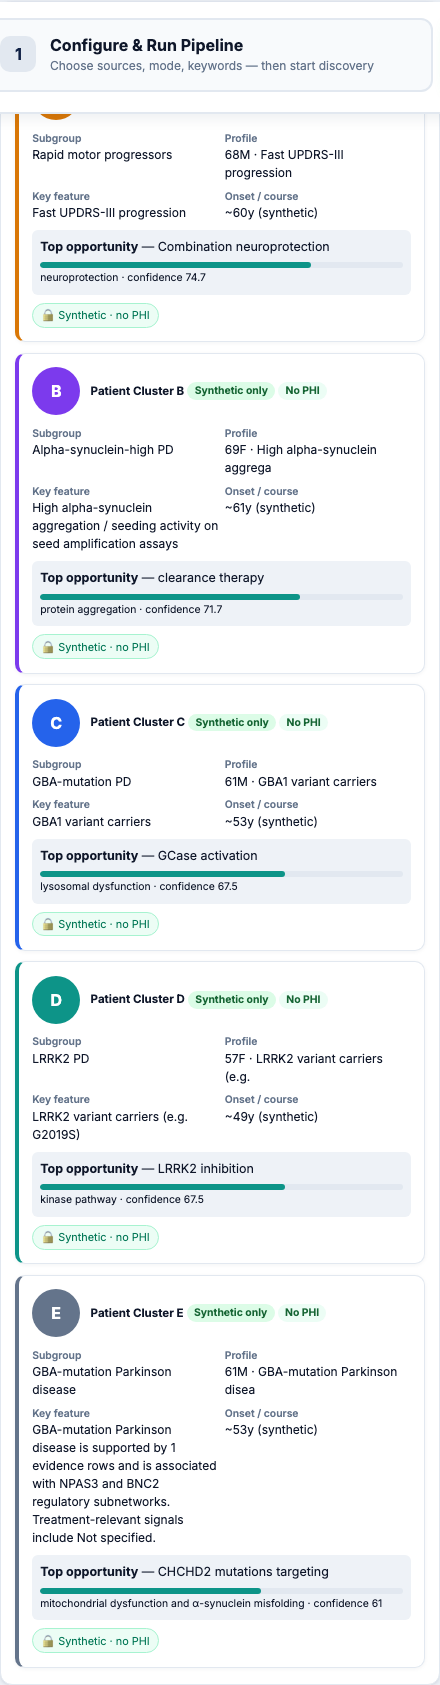
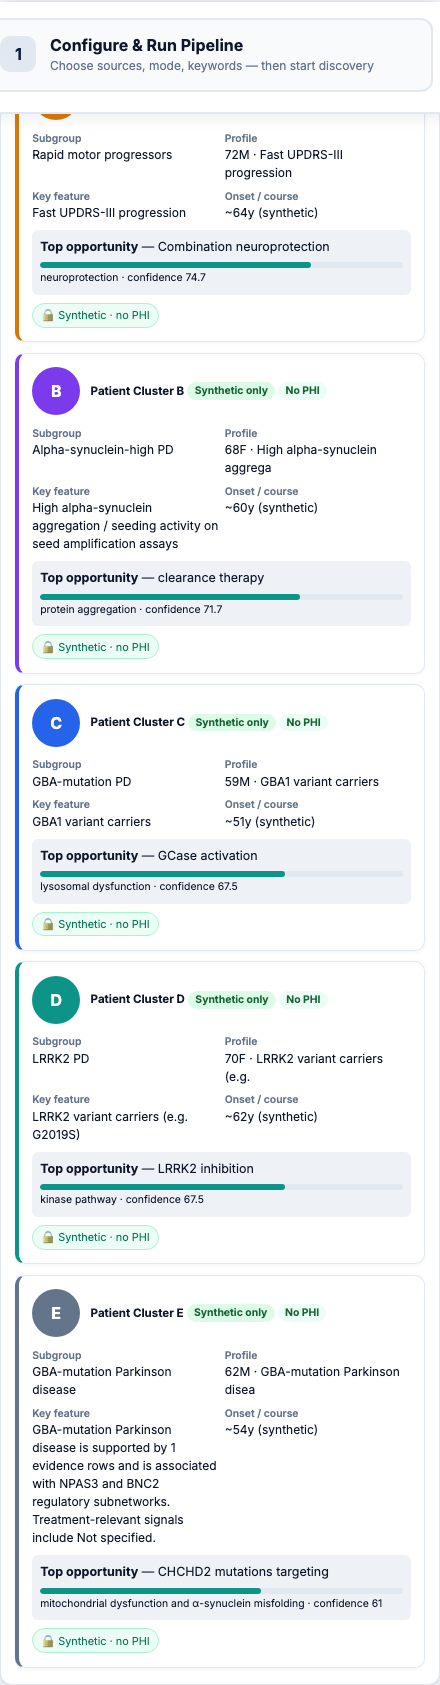
Sync docs and screenshots with simplified dashboard UI.
Align Step 1–3 copy across AGENTS, guides, quickstart, and API docs; remove dead CSS; refresh dashboard PNGs for gh-pages.

diff --git a/neurodiscover/frontend/index.html b/neurodiscover/frontend/index.html
@@ -427,26 +427,6 @@
     .cua-kpi-warn .val { color: #b45309 !important; }
     .cua-kpi-risk { border-color: #fca5a5 !important; background: #fef2f2 !important; }
     .cua-kpi-risk .val { color: #b91c1c !important; }
-    .cua-status-row {
-      display: flex;
-      flex-wrap: wrap;
-      gap: 0.45rem;
-      margin-top: 0.85rem;
-    }
-    .cua-status-row.hidden { display: none; }
-    .cua-status {
-      display: inline-flex;
-      align-items: center;
-      padding: 0.28rem 0.65rem;
-      border-radius: 999px;
-      font-size: 0.76rem;
-      font-weight: 600;
-      border: 1px solid var(--border);
-    }
-    .cua-status.ok { background: #dcfce7; color: #166534; border-color: #86efac; }
-    .cua-status.warn { background: #fef3c7; color: #b45309; border-color: #fcd34d; }
-    .cua-status.risk { background: #fee2e2; color: #b91c1c; border-color: #fca5a5; }
-    .cua-status.neutral { background: #fff; color: var(--navy); border-color: var(--border); }
     .cua-toc {
       display: flex;
       flex-wrap: wrap;
@@ -874,14 +854,6 @@
     .flow-out-syn { background: #f0fdf4; color: #15803d; border-color: #86efac; }
     .flow-out-rank { background: #fffbeb; color: #b45309; border-color: #fcd34d; }
     .flow-out-hyp { background: #f0f9ff; color: #0369a1; border-color: #7dd3fc; }
-    .flow-footer {
-      font-size: 0.7rem;
-      color: var(--muted);
-      text-align: center;
-      margin-top: 0.75rem;
-      padding-top: 0.75rem;
-      border-top: 1px dashed var(--border);
-    }
     .outputs-three {
       display: grid;
       grid-template-columns: 1fr 1fr 1fr;
@@ -1266,30 +1238,6 @@
     .runs-table code { font-size: 0.7rem; }
     .status-complete { color: #059669; font-weight: 600; }
     .status-partial { color: var(--amber); font-weight: 600; }
-    .results-pills {
-      display: flex;
-      flex-wrap: wrap;
-      align-items: center;
-      gap: 0.5rem;
-      margin-bottom: 1rem;
-    }
-    .results-pills .badge {
-      display: inline-flex;
-      align-items: center;
-      justify-content: center;
-      line-height: 1;
-      min-height: 2rem;
-      padding: 0.45rem 0.85rem;
-      font-size: 0.78rem;
-      font-weight: 600;
-      border-radius: 999px;
-      box-sizing: border-box;
-      background: #fff;
-      color: var(--navy);
-      border: 1px solid var(--border);
-    }
-    .results-pills .badge.ok { background: #dcfce7; color: #166534; border-color: #86efac; }
-    .results-pills .badge.syn { background: #ffedd5; color: #9a3412; border-color: #fdba74; }
     .conf-mini-track { height: 6px; background: var(--border); border-radius: 3px; margin-top: 0.35rem; overflow: hidden; }
     .conf-mini-fill { height: 100%; background: var(--secondary); border-radius: 3px; }
     .rec-quote {
@@ -1327,15 +1275,6 @@
       border-radius: 4px;
       text-decoration: none;
       border: 1px solid #86efac;
-    }
-    .demo-notice {
-      background: #fffbeb;
-      border: 1px solid #fde68a;
-      color: #92400e;
-      padding: 0.85rem 1rem;
-      border-radius: 10px;
-      font-size: 0.8rem;
-      margin-top: 1.5rem;
     }
     .timeline .ts { float: right; font-size: 0.72rem; color: var(--muted); }
     .evidence-meta { font-size: 0.72rem; color: var(--muted); float: right; }

diff --git a/docs/workflow/conclusion-update.md b/docs/workflow/conclusion-update.md
@@ -14,7 +14,7 @@ Agent 6 has **two implementations**. They share the name and read the same upstr
 |---|---|---|
 | **Purpose** | Rank treatments for the dashboard | Write a full **NIH R01 grant proposal** from the evidence |
 | **Module** | `neurodiscover/orchestrator.py` | `cua/src/cua/` (standalone package) |
-| **Owner** | Amy He (orchestrator) | Alia Merchant (CUA) |
+| **Owner** | Amy He (orchestrator) | Amy He (CUA) |
 | **Runs when** | Every `demo` / `scan` / `full` / `agents-only` pipeline run | **Manually** — not part of the dashboard pipeline |
 | **Uses LLMs** | No | Yes — Blueprint, Synthesizer, Critic, Reviser, etc. |
 | **Writes DB** | `recommendations` + `agent_outputs` | **Nothing** — read-only consumer |
@@ -88,7 +88,7 @@ confidence = evidence_strength × 0.55 + commercial_potential × 0.45
 ### Downstream
 
 - Dashboard **Ranked treatments** panel reads `recommendations`
-- **Synthetic cohort** (Patients A–E) generated from top recommendations — not persisted
+- **Ideal candidate profiles** (Patient Cluster A–E) generated from top recommendations — not persisted
 
 See [Output examples](../output) for full JSON shapes.
 
@@ -154,4 +154,4 @@ Set `SUPABASE_DATABASE_URL` from [Supabase setup](../developer-reference/supabas
 - CUA is a **read-only downstream consumer** of the same data the dashboard pipeline writes
 - PR #12 added `neurodiscover/frontend/supabase_dashboard.html` for viewing Supabase evidence/connections/recommendations — that page does not invoke CUA
 - Full CUA architecture, contracts, and honest limits: `cua/README.md`
-- **Dashboard:** Step 3 **Grant Proposal** tab inlines the static bundled `graded6` report — **The proposal** expanded at top (above data loop), then one collapsed **Pipeline trace & audit** group (single click, no nested collapses); **Jump to** scrolls to Proposal or opens supporting details — not tied to Step 1/2 `run_id` (see [Dashboard — Step 3 report structure](../dashboard#step-3--report-structure))
+- **Dashboard:** Step 3 **Grant Proposal** tab inlines the static bundled `graded6` report — **The proposal** expanded at top (aims + **Grant pipeline** diagram), then one collapsed **Pipeline trace & audit** group; **Jump to** scrolls to Proposal or opens supporting details — not tied to Step 1/2 `run_id` (see [Dashboard — Step 3 report structure](../dashboard#step-3--report-structure))

diff --git a/neurodiscover/frontend/quickstart.md b/neurodiscover/frontend/quickstart.md
@@ -153,7 +153,7 @@ python3 cli.py dashboard --skip-install --no-browser
 1. **Step 1 — Configure & Run** — pick **pipeline mode** (Rescore DB / Demo sample / Incremental scan / Full live pull), disease (default **Parkinson's**), max papers, keywords, extraction backend.
 2. Click the **run button** (label matches the selected mode). The **run status strip** shows pipeline progress while agents run.
 3. **Step 2 — Discovery Results** — ideal candidate profiles, ranked treatments, hypotheses (scores from **this run’s** recommendations); discovery pipeline diagram below; **Audit & provenance** collapsed by default — expand for agent trace + evidence table.
-4. **Step 3 — Grant Proposal** — static bundled `graded6` demo (not tied to your `run_id`). Hero KPIs, audit status chips, **Jump to** (Proposal + supporting details). **The proposal** is fully expanded at the top (above the data loop); pipeline trace, writer contract, booster, and audit sit behind **one** collapsed **Pipeline trace & audit** group (single click — no nested collapses). **Run a live grant proposal (CLI)** is collapsible at the bottom. For a live run: `cd cua && pip install -e .` then `python -m cua.nih.run_db` with `ANTHROPIC_API_KEY` + `CUA_LIVE=1` (see `cua/README.md`).
+4. **Step 3 — Grant Proposal** — static bundled `graded6` demo (not tied to your `run_id`). Hero KPIs (corpus · verified papers · citations · Critic F1/F2/F3), **Jump to** (Proposal + supporting details). **The proposal** stays expanded (aims + **Grant pipeline** diagram + Open full report); contract, booster, and audit prose sit behind **one** collapsed **Pipeline trace & audit** group. Report toolbar shows **`x/y obligations satisfied`**. **Run a live grant proposal (CLI)** is collapsible at the bottom. For a live run: `cd cua && pip install -e .` then `python -m cua.nih.run_db` with `ANTHROPIC_API_KEY` + `CUA_LIVE=1` (see `cua/README.md`).
 
 `make dashboard` only runs demo once at startup. Change settings and rerun from Step 1 while the servers stay up.
 

diff --git a/AGENTS.md b/AGENTS.md
@@ -63,7 +63,7 @@ make dashboard
 # → launcher prints Open: URL (UI :8080/?api=... ; Ctrl+C to stop)
 ```
 
-Same as `python3 cli.py dashboard` or `./dashboard`. Opens the browser automatically (`--no-browser` to skip). UI has three tabs: **Step 1** configure & run (live stepper on sidebar); **Step 2** discovery results (three output panels + collapsed **Audit & provenance**); **Step 3** static grant proposal (`graded6`, corpus vs verified-papers KPIs, proposal expanded at top + single **Pipeline trace & audit** collapse, not run-scoped).
+Same as `python3 cli.py dashboard` or `./dashboard`. Opens the browser automatically (`--no-browser` to skip). UI has three tabs: **Step 1** configure & run (full-width config panel + global run status strip); **Step 2** discovery results (ideal candidate profiles · ranked outputs · hypotheses, then pipeline diagram + collapsed **Audit & provenance**); **Step 3** static grant proposal (`graded6`, corpus vs verified-papers KPIs, proposal with pipeline diagram below aims + single **Pipeline trace & audit** collapse, not run-scoped).
 
 - **Local:** leave `SUPABASE_DATABASE_URL` unset — builds seed DB, runs demo (`max_papers=10`).
 - **Team Supabase:** set `SUPABASE_DATABASE_URL` — skips `build`, runs **agents-only** (agents 2–6 on all existing evidence).

diff --git a/neurodiscover/frontend/mockup-v2.md b/neurodiscover/frontend/mockup-v2.md
@@ -8,4 +8,4 @@ The dashboard UI is implemented in `index.html` on `main`.
 
 Design reference: `neurodiscover_dashboard_mockup_v2.pdf` (add to `frontend/` if you want pixel-perfect comparison in-repo).
 
-Implemented highlights: **three tabs** (Configure & Run · Discovery Results · Grant Proposal), KPI + run-vs-DB summary, run status strip, full-width Step 1 configure panel, three-column Step 2 results (ideal candidate profiles first, then pipeline diagram, audit & provenance collapsed), ET timestamps, recent runs table, Step 3 static grant proposal report (**proposal expanded at top**, single **Pipeline trace & audit** collapse for supporting sections, Jump to nav).
+Implemented highlights: **three tabs** (Configure & Run · Discovery Results · Grant Proposal), minimal header (DB LIVE + optional run chip), KPI strip, run status strip, full-width Step 1 configure panel, Step 2 results (ideal candidate profiles · ranked outputs · hypotheses, then pipeline diagram, audit & provenance collapsed), recent runs table, Step 3 static grant proposal (corpus/verified-papers KPIs, **proposal** with aims + pipeline diagram, **`x/y obligations satisfied`**, single **Pipeline trace & audit** collapse, Jump to nav).

diff --git a/docs/developer-reference/dashboard-api.md b/docs/developer-reference/dashboard-api.md
@@ -57,7 +57,7 @@ flowchart LR
 | Run status strip | Ready / Running / Complete / Partial / Failed |
 | **Step 1** | Configure & run — pipeline mode (Rescore / Demo / Incremental / Full), disease, max papers, extraction; single run button. Mode FAQ: [Inputs — pipeline modes](../input#recommended-workflow) |
 | **Step 2** | **Pipeline complete** badge beside title; ideal candidate profiles, ranked outputs, and hypotheses panels first; discovery pipeline diagram; **Audit & provenance** collapsed (agent trace + evidence table inside) |
-| **Step 3** | Static grant proposal — bundled `graded6` demo inlined (not run-scoped); **The proposal** expanded first (above data loop); all other sections in one collapsed **Pipeline trace & audit** group (single click, no nested collapses); **Jump to** scrolls to Proposal or opens supporting details |
+| **Step 3** | Static grant proposal — bundled `graded6` demo inlined (not run-scoped); **The proposal** expanded first (aims + **Grant pipeline** diagram); all other sections in one collapsed **Pipeline trace & audit** group; **Jump to** scrolls to Proposal or opens supporting details; toolbar **`x/y obligations satisfied`** |
 
 ### Step 3 — report structure
 

diff --git a/docs/guides.md b/docs/guides.md
@@ -82,7 +82,7 @@ cp .env.example .env
 
 ## CUA — NIH grant proposal (Step 3)
 
-Dashboard **Step 3** shows a **static** bundled demo (`graded6`) with hero KPIs (**corpus papers** = full pull, **verified papers** = top-K slice selected for drafting — see [Dashboard — Corpus vs verified papers](dashboard#corpus-vs-verified-papers)), audit status chips, jump-to nav (Proposal + supporting details), and an inlined report with **The proposal** expanded at the top and all pipeline/audit sections behind one collapsed **Pipeline trace & audit** group. To generate a new proposal from your DB:
+Dashboard **Step 3** shows a **static** bundled demo (`graded6`) with hero KPIs (**corpus papers** = full pull, **verified papers** = top-K slice selected for drafting — see [Dashboard — Corpus vs verified papers](dashboard#corpus-vs-verified-papers)), **Jump to** nav (Proposal + supporting details), and an inlined report: **The proposal** (aims + **Grant pipeline** diagram) expanded at the top; pipeline/audit prose behind one collapsed **Pipeline trace & audit** group. Toolbar shows **`x/y obligations satisfied`**. To generate a new proposal from your DB:
 
 ```bash
 cd cua && pip install -e .

diff --git a/docs/developer-reference/agent-io.md b/docs/developer-reference/agent-io.md
@@ -213,7 +213,7 @@ Where `confidence = evidence_strength * 0.55 + commercial_potential * 0.45` and:
 
 Plus `agent_outputs`.
 
-### CUA package — grant proposal (separate I/O path)
+### CUA package — grant proposal (separate I/O path, Amy He)
 
 The standalone **`cua/`** Conclusion Update Agent reads the same blackboard **SELECT-only** (via `cua/src/cua/nih/adapters/neurodiscover.py`) but does **not** apply the `evidence_strength IS NOT NULL AND commercial_potential IS NOT NULL` filter — it reads all connections and maps NULL grades to `minimal`. It writes **no** SQL; output is local JSON/HTML under `cua/outputs/`. Entrypoint: `python -m cua.nih.run_db --db <url|path>`. See [Conclusion Update workflow](../workflow/conclusion-update#cua-package--nih-grant-proposal).
 

diff --git a/docs/cua-f1-innovation-check.md b/docs/cua-f1-innovation-check.md
@@ -119,8 +119,8 @@ The **Internal Critic** (Opus, blind to writer self-scores) is the authoritative
 
 | UI component | Innovation-related content |
 |--------------|----------------------------|
-| **Critic F1** KPI | Aggregate F1 score (includes innovation) |
-| **Audit status chips** | `Critic F1 = 7`, obligation counts |
+| **Critic F1** KPI | Aggregate F1 score (includes innovation), shown as `n/9` |
+| **Report toolbar** | `17/21 obligations satisfied` (example from `graded6`) |
 | **The proposal** | Innovation section in NIH text (always visible) |
 | **The contract** | Full F1-3 requirement |
 | **Explored & dropped** | Selection Scorer rationale comparing candidates’ F1 (incl. innovation) |

diff --git a/docs/output.md b/docs/output.md
@@ -2,7 +2,7 @@
 layout: default
 title: Output examples
 nav_order: 5
-description: "API JSON shapes, recommendations, synthetic cohort, and dashboard panels"
+description: "API JSON shapes, recommendations, ideal candidate profiles, and dashboard panels"
 ---
 
 # Output examples
